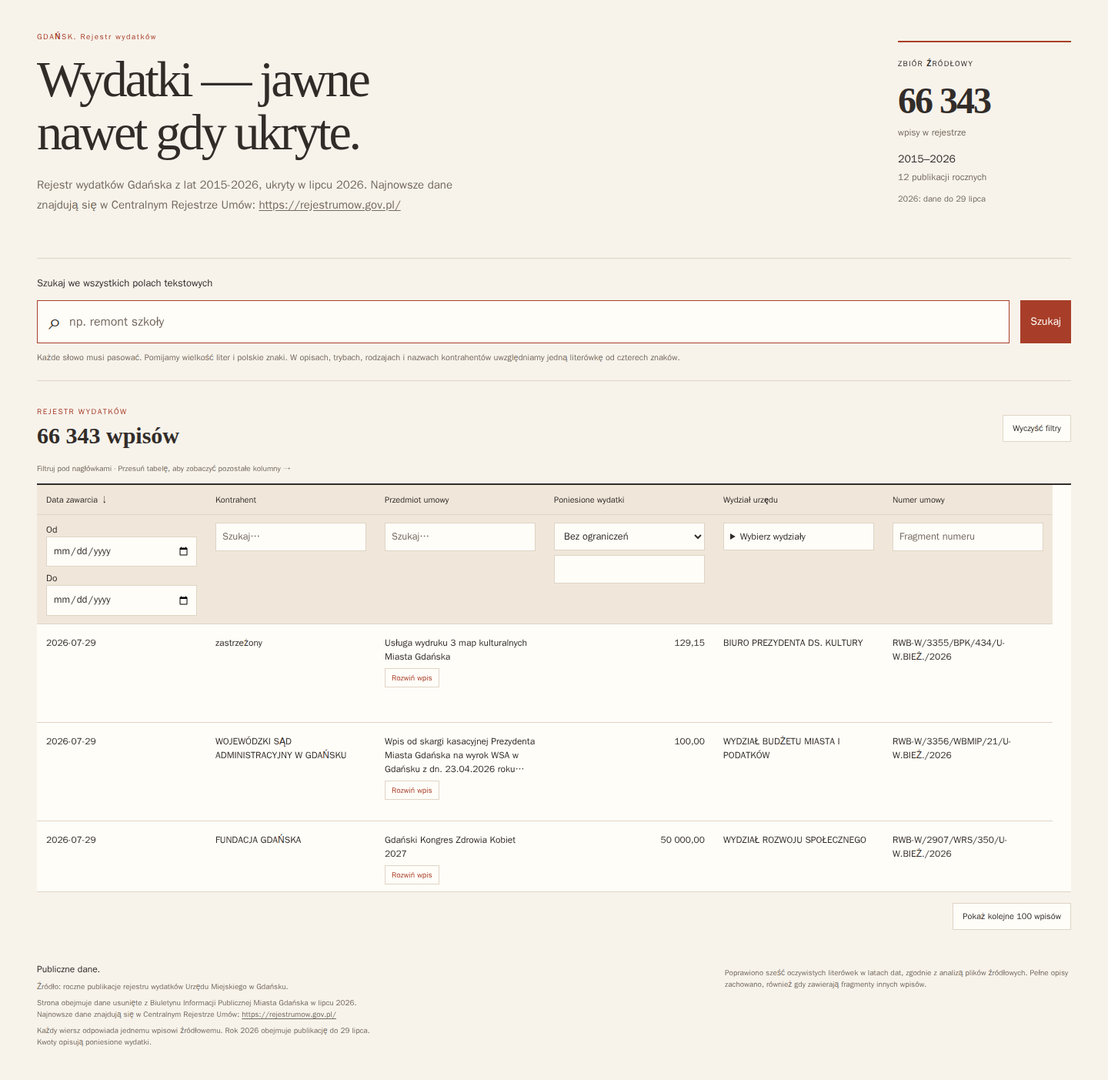
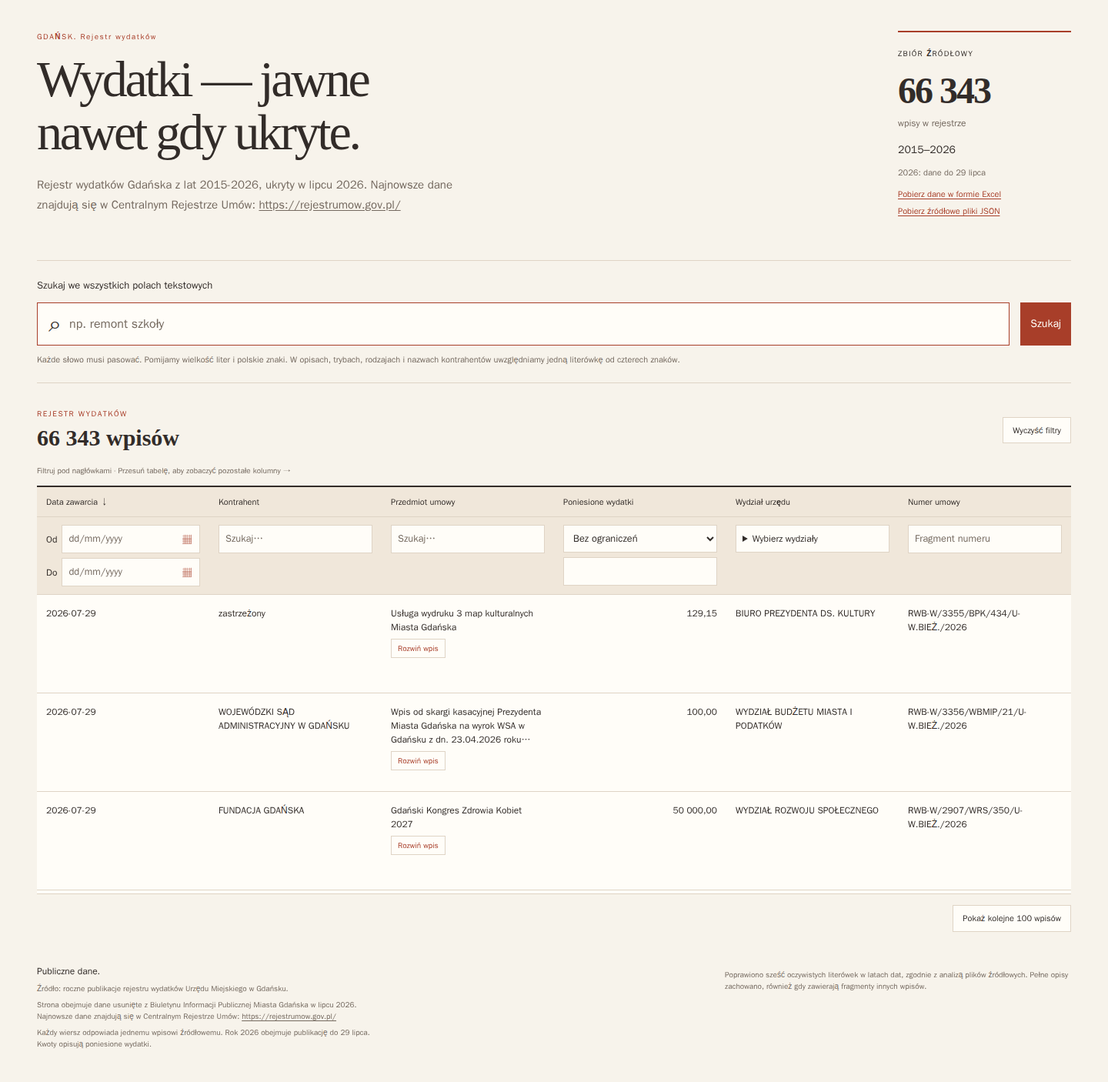
improve expense browsing and source downloads

diff --git a/tests/site/browser/site.spec.ts b/tests/site/browser/site.spec.ts
@@ -21,6 +21,14 @@ test('pełny zbiór, stałe ustawienia i dwie kolumny', async ({ page }) => {
   await expect(page.getByText('Rejestr wydatków Gdańska z lat 2015-2026, ukryty w lipcu 2026.', { exact: false })).toBeVisible();
   await expect(page.getByText('Strona obejmuje dane usunięte z Biuletynu Informacji Publicznej Miasta Gdańska w lipcu 2026.', { exact: false })).toBeVisible();
   await expect(page.getByRole('link', { name: 'https://rejestrumow.gov.pl/' })).toHaveCount(2);
+  await expect(page.getByRole('link', { name: 'Pobierz dane w formie Excel' })).toHaveAttribute('href', './wydatki-gdanska_2015-2026.xlsx');
+  await expect(page.getByRole('link', { name: 'Pobierz źródłowe pliki JSON' })).toHaveAttribute('href', './data/index.html');
+  const excel = await page.request.get('/wydatki-gdanska_2015-2026.xlsx');
+  expect(excel.ok()).toBe(true);
+  expect((await excel.body()).subarray(0, 2).toString()).toBe('PK');
+  const jsonIndex = await page.request.get('/data/index.html');
+  expect(jsonIndex.ok()).toBe(true);
+  expect(await jsonIndex.text()).toContain('publikacja-wydatkow-2026.json');
   await expect(page.getByText('Wyniki obejmują cały zbiór.', { exact: true })).toHaveCount(0);
   await expect(page.locator('tr.entry-row')).toHaveCount(100);
   await expect(page.locator('#profile, #combine, #scope, #example')).toHaveCount(0);
@@ -48,6 +56,24 @@ test('sortowanie zachowuje filtry, literówki w numerze nie pasują', async ({ p
   await submit(page);
   await expect(page.locator('#count')).toHaveAttribute('data-total', '0');
 });
+test('polski format daty filtruje wpisy', async ({ page }) => {
+  await ready(page);
+  const from = page.locator('#contractDate-from');
+  const to = page.locator('#contractDate-to');
+  const picker = page.locator('#contractDate-from-picker');
+  await expect(from).toHaveAttribute('placeholder', 'dd/mm/yyyy');
+  await expect(to).toHaveAttribute('placeholder', 'dd/mm/yyyy');
+  await expect(from.locator('../..')).toHaveCSS('white-space', 'nowrap');
+  await expect(picker).toHaveAttribute('type', 'date');
+  await expect(page.getByRole('button', { name: 'Otwórz kalendarz: Data zawarcia, Od' })).toBeVisible();
+  await picker.fill('2026-07-29');
+  await expect(from).toHaveValue('29/07/2026');
+  await to.fill('29/07/2026');
+  await submit(page);
+  expect(Number(await page.locator('#count').getAttribute('data-total'))).toBeGreaterThan(0);
+  const dates = await page.locator('tr.entry-row td:first-child').allTextContents();
+  expect(dates.every(value => value.trim().startsWith('2026-07-29'))).toBe(true);
+});
 test('wąski ekran i pełny długi opis', async ({ page }) => {
   await page.setViewportSize({ width: 390, height: 844 });
   await ready(page);
@@ -63,6 +89,14 @@ test('wąski ekran i pełny długi opis', async ({ page }) => {
   await page.keyboard.press('Escape');
   await expect(page.locator('#record-dialog')).not.toBeVisible();
   expect(await page.evaluate(() => document.documentElement.scrollWidth <= innerWidth)).toBe(true);
+});
+test('kliknięcie w dowolną komórkę rozwija wpis', async ({ page }) => {
+  await ready(page);
+  const row = page.locator('tr.entry-row').first();
+  const id = await row.getAttribute('data-id');
+  await row.locator('td').first().click();
+  await expect(page.locator('#record-dialog')).toBeVisible();
+  await expect(page.locator('#record-title')).toHaveText('Pełny wpis ' + id);
 });
 test('błąd pobrania nie pokazuje niepełnych wyników', async ({ page }) => {
   await page.context().route('**/generated/manifest.json', route => route.fulfill({ status: 503, body: '' }));
@@ -114,6 +148,9 @@ test('wysokość wierszy odpowiada oknu także po zmianie szerokości', async ({
     const heights = await page.locator('tr.entry-row').evaluateAll(rows => rows.map(row => row.getBoundingClientRect().height));
     expect([...new Set(heights)]).toEqual([ROW_HEIGHT]);
     const table = page.locator('.table-scroll');
+    const dimensions = await table.evaluate(element => ({ viewport: element.clientWidth, table: element.querySelector('table')!.getBoundingClientRect().width }));
+    if (width === 1440) expect(dimensions.table).toBe(dimensions.viewport);
+    else expect(dimensions.table).toBeGreaterThan(dimensions.viewport);
     await table.evaluate(element => { element.scrollLeft = element.scrollWidth; });
     await expect(page.getByRole('button', { name: 'Numer umowy', exact: true })).toBeInViewport();
     expect(await page.evaluate(() => document.documentElement.scrollWidth <= innerWidth)).toBe(true);

diff --git a/site/style.css b/site/style.css
@@ -30,6 +30,8 @@ h1 { font: 400 clamp(40px, 4.6vw, 66px)/1.04 Georgia, "Times New Roman", serif; 
 .collection strong > span:last-child, .collection div span { display: block; font: 400 12px/1.5 system-ui, sans-serif; letter-spacing: 0; color: var(--muted); margin-top: 4px; }
 .collection div b { font-weight: 600; }
 .collection p { color: var(--muted); font-size: 11px; margin-bottom: 0; }
+.collection-downloads { display: grid; gap: 5px; margin-top: 12px; font-size: 11px; }
+.collection-downloads a { color: var(--accent); text-decoration: underline; text-underline-offset: 2px; }
 #status { color: var(--muted); font-size: 12px; margin: 0 0 10px; min-height: 18px; }
 fieldset { min-width: 0; border: 0; margin: 0; padding: 0; }
 .search-area { padding: 22px 0; border-top: 1px solid var(--line); border-bottom: 1px solid var(--line); margin-bottom: 32px; }
@@ -49,7 +51,7 @@ fieldset { min-width: 0; border: 0; margin: 0; padding: 0; }
 .table-toolbar button { font-size: 11px; }
 .scroll-hint { color: var(--muted); font-size: 10px; margin: 0 0 12px; }
 .table-scroll { overflow: auto; overflow-anchor: none; max-height: 530px; position: relative; border-top: 2px solid var(--ink); background: var(--paper); scrollbar-color: var(--muted) var(--soft); }
-table { border-collapse: separate; border-spacing: 0; table-layout: fixed; width: 1320px; font-size: 12px; }
+table { border-collapse: separate; border-spacing: 0; table-layout: fixed; width: 100%; min-width: 1320px; font-size: 12px; }
 thead { position: sticky; top: 0; z-index: 2; background: var(--soft); }
 th, td { width: 220px; min-width: 0; max-width: none; text-align: left; padding: 10px 12px; border-bottom: 1px solid var(--line); vertical-align: top; overflow-wrap: anywhere; }
 th { white-space: normal; font-weight: 550; }
@@ -58,8 +60,14 @@ th[aria-sort="ascending"] button::after { content: ' ↑'; }
 th[aria-sort="descending"] button::after { content: ' ↓'; }
 thead input, thead select { min-width: 0; font-size: .8rem; }
 thead label { display: block; font-size: .75rem; }
+.date-bound { display: flex; align-items: center; gap: 6px; white-space: nowrap; }
+.date-entry { position: relative; display: flex; flex: 1 1 auto; min-width: 0; white-space: nowrap; }
+.date-entry > input[type="text"] { flex: 1 1 auto; width: 0; min-width: 0; padding-right: 34px; white-space: nowrap; }
+.date-picker-button { position: absolute; inset: 1px 1px 1px auto; width: 32px; padding: 0; border: 0; color: var(--accent); background: transparent; }
+.native-date-picker { position: absolute; width: 1px; height: 1px; opacity: 0; pointer-events: none; }
 #filter-head td > label + label, #amount { margin-top: 6px; }
-.entry-row { height: 128px; }
+.date-bound + .date-bound { margin-top: 6px; }
+.entry-row { height: 128px; cursor: pointer; }
 .entry-row td { padding: 15px 12px 16px; }
 .entry-row td > div { height: 96px; overflow: hidden; }
 .entry-row td span { display: -webkit-box; -webkit-box-orient: vertical; -webkit-line-clamp: 3; overflow: hidden; }
@@ -95,10 +103,11 @@ dialog dt { font-size: 10px; text-transform: uppercase; letter-spacing: .06em; c
   .hero { padding: 28px 0 22px; display: block; }
   h1 { font-size: 45px; }
   .intro { font-size: 13px; }
-  .collection { border-top: 1px solid var(--line); padding: 14px 0 0; margin-top: 22px; width: 100%; display: flex; align-items: center; justify-content: space-between; gap: 12px; }
-  .collection-label, .collection p { display: none; }
+  .collection { border-top: 1px solid var(--line); padding: 14px 0 0; margin-top: 22px; width: 100%; display: grid; grid-template-columns: 1fr auto; align-items: center; gap: 12px; }
+  .collection-label, .collection-date { display: none; }
   .collection strong { font-size: 28px; margin: 0; letter-spacing: -1px; }
   .collection strong > span:last-child, .collection div span { font-size: 10px; }
+  .collection-downloads { grid-column: 1 / -1; display: flex; flex-wrap: wrap; gap: 6px 16px; margin-top: 0; }
   .search-area { padding: 18px 0; margin-bottom: 22px; }
   .search-line { gap: 8px; }
   .grow { min-width: 0; font-size: 12px; }

diff --git a/site/main.ts b/site/main.ts
@@ -38,6 +38,23 @@ function textControl(id: string, label: string, type = 'search') {
   control.id = id; control.type = type; control.setAttribute('aria-label', label);
   return control;
 }
+function dateValue(control: HTMLInputElement): string {
+  const value = control.value.trim();
+  if (!value) { control.setCustomValidity(''); return ''; }
+  const match = /^(\d{2})\/(\d{2})\/(\d{4})$/.exec(value);
+  if (!match) { control.setCustomValidity('Wpisz datę w formacie dd/mm/rrrr.'); return ''; }
+  const [, day, month, year] = match;
+  const parsed = new Date(Date.UTC(Number(year), Number(month) - 1, Number(day)));
+  const valid = parsed.getUTCFullYear() === Number(year)
+    && parsed.getUTCMonth() === Number(month) - 1
+    && parsed.getUTCDate() === Number(day);
+  control.setCustomValidity(valid ? '' : 'Wpisz prawidłową datę.');
+  return valid ? `${year}-${month}-${day}` : '';
+}
+function displayDate(value: string): string {
+  const [year, month, day] = value.split('-');
+  return year && month && day ? `${day}/${month}/${year}` : '';
+}
 for (const field of TABLE_COLUMNS) {
   const heading = document.createElement('th'); heading.scope = 'col'; heading.dataset.field = field;
   const button = document.createElement('button'); button.type = 'button'; button.textContent = LABELS[field];
@@ -53,8 +70,24 @@ for (const field of TABLE_COLUMNS) {
     cell.append(control);
   } else if (dateFields.includes(field as typeof dateFields[number])) {
     for (const [key, label] of [['from', 'Od'], ['to', 'Do']]) {
-      const wrapper = document.createElement('label'); wrapper.textContent = label;
-      wrapper.append(textControl(field + '-' + key, LABELS[field] + ': ' + label, 'date'));
+      const id = field + '-' + key;
+      const wrapper = document.createElement('div'); wrapper.className = 'date-bound';
+      const caption = document.createElement('label'); caption.htmlFor = id; caption.textContent = label;
+      const entry = document.createElement('span'); entry.className = 'date-entry';
+      const control = textControl(id, LABELS[field] + ': ' + label, 'text');
+      control.placeholder = 'dd/mm/yyyy'; control.inputMode = 'numeric'; control.maxLength = 10;
+      control.pattern = '\\d{2}/\\d{2}/\\d{4}'; control.autocomplete = 'off';
+      const picker = textControl(id + '-picker', 'Wybierz datę: ' + LABELS[field] + ', ' + label, 'date');
+      picker.className = 'native-date-picker'; picker.tabIndex = -1; picker.setAttribute('aria-hidden', 'true');
+      const openPicker = document.createElement('button'); openPicker.type = 'button'; openPicker.className = 'date-picker-button';
+      openPicker.textContent = '▦'; openPicker.setAttribute('aria-label', 'Otwórz kalendarz: ' + LABELS[field] + ', ' + label);
+      openPicker.addEventListener('click', () => typeof picker.showPicker === 'function' ? picker.showPicker() : picker.click());
+      picker.addEventListener('change', () => {
+        control.value = displayDate(picker.value);
+        control.dispatchEvent(new Event('input', { bubbles: true }));
+      });
+      control.addEventListener('input', () => { picker.value = dateValue(control); });
+      entry.append(control, openPicker, picker); wrapper.append(caption, entry);
       cell.append(wrapper);
     }
   } else if (field === 'contractCost') {
@@ -83,8 +116,9 @@ function currentQuery(): PublicQuery {
     filters.amount = { operator: operator as '>' | '<', value: amount.valueAsNumber };
   }
   for (const field of dateFields) {
-    const from = input(field + '-from').value, to = input(field + '-to').value;
-    input(field + '-to').setCustomValidity(from && to && from > to ? 'Data końcowa nie może poprzedzać początkowej.' : '');
+    const fromControl = input(field + '-from'), toControl = input(field + '-to');
+    const from = dateValue(fromControl), to = dateValue(toControl);
+    if (from && to && from > to) toControl.setCustomValidity('Data końcowa nie może poprzedzać początkowej.');
     if (from || to) filters.dates![field] = { from, to };
   }
   return { text: input('query').value,

diff --git a/scripts/przygotuj-strone.ts b/scripts/przygotuj-strone.ts
@@ -1,5 +1,5 @@
 import { createHash } from 'node:crypto';
-import { mkdir, rm, writeFile } from 'node:fs/promises';
+import { copyFile, cp, mkdir, rm, writeFile } from 'node:fs/promises';
 import { gzipSync } from 'node:zlib';
 import MiniSearch from 'minisearch';
 import { INDEX_OPTIONS } from '../src/search/engine.ts';
@@ -8,9 +8,13 @@ import { loadSource, ROOT } from './dane-poc.ts';
 const { rows, sources, corrections } = await loadSource();
 const index = new MiniSearch(INDEX_OPTIONS);
 index.addAll(rows);
-const directory = ROOT + 'site/public/generated/';
+const publicDirectory = ROOT + 'site/public/';
+const directory = publicDirectory + 'generated/';
 await rm(directory, { recursive: true, force: true });
 await mkdir(directory, { recursive: true });
+await rm(publicDirectory + 'data/', { recursive: true, force: true });
+await cp(ROOT + 'data/', publicDirectory + 'data/', { recursive: true });
+await copyFile(ROOT + 'wydatki-gdanska_2015-2026.xlsx', publicDirectory + 'wydatki-gdanska_2015-2026.xlsx');
 async function artifact(name: string, value: unknown) {
   const content = JSON.stringify(value);
   const digest = createHash('sha256').update(content).digest('hex').slice(0, 16);
@@ -24,4 +28,4 @@ const files = {
   index: await artifact('index', index),
 };
 await writeFile(directory + 'manifest.json', JSON.stringify({ count: rows.length, sources, corrections, files }, null, 2));
-console.log(`Przygotowano ${rows.length} wpisy i indeks.`);
+console.log(`Przygotowano ${rows.length} wpisy, indeks i pliki do pobrania.`);

diff --git a/data/index.html b/data/index.html
@@ -1,0 +1,35 @@
+<!doctype html>
+<html lang="pl">
+<head>
+  <meta charset="UTF-8">
+  <meta name="viewport" content="width=device-width, initial-scale=1">
+  <title>Pliki JSON — Rejestr wydatków Gdańska</title>
+  <style>
+    body { max-width: 760px; margin: 48px auto; padding: 0 20px; color: #322c29; background: #f7f3eb; font: 16px/1.6 system-ui, sans-serif; }
+    h1 { font: 400 42px/1.1 Georgia, serif; }
+    a { color: #8f321f; text-underline-offset: 3px; }
+    li { margin: 8px 0; }
+  </style>
+</head>
+<body>
+  <main>
+    <p><a href="../index.html">← Wróć do rejestru wydatków</a></p>
+    <h1>Wydatki Gdańska — pliki JSON</h1>
+    <p>Pełne dane źródłowe, osobno dla każdego roku:</p>
+    <ul>
+      <li><a href="publikacja-wydatkow-2026.json">2026</a></li>
+      <li><a href="publikacja-wydatkow-2025.json">2025</a></li>
+      <li><a href="publikacja-wydatkow-2024.json">2024</a></li>
+      <li><a href="publikacja-wydatkow-2023.json">2023</a></li>
+      <li><a href="publikacja-wydatkow-2022.json">2022</a></li>
+      <li><a href="publikacja-wydatkow-2021.json">2021</a></li>
+      <li><a href="publikacja-wydatkow-2020.json">2020</a></li>
+      <li><a href="publikacja-wydatkow-2019.json">2019</a></li>
+      <li><a href="publikacja-wydatkow-2018.json">2018</a></li>
+      <li><a href="publikacja-wydatkow-2017.json">2017</a></li>
+      <li><a href="publikacja-wydatkow-2016.json">2016</a></li>
+      <li><a href="publikacja-wydatkow-2015.json">2015</a></li>
+    </ul>
+  </main>
+</body>
+</html>

diff --git a/site/index.html b/site/index.html
@@ -17,8 +17,12 @@
     <div class="collection">
       <span class="collection-label">ZBIÓR ŹRÓDŁOWY</span>
       <strong><span id="collection-count">—</span><span>wpisy w rejestrze</span></strong>
-      <div><b>2015–2026</b><span>12 publikacji rocznych</span></div>
-      <p>2026: dane do 29 lipca</p>
+      <div><b>2015–2026</b></div>
+      <p class="collection-date">2026: dane do 29 lipca</p>
+      <div class="collection-downloads">
+        <a href="./wydatki-gdanska_2015-2026.xlsx" download>Pobierz dane w formie Excel</a>
+        <a href="./data/index.html">Pobierz źródłowe pliki JSON</a>
+      </div>
     </div>
   </section>
   <p id="status" role="status">Wczytywanie danych…</p>

diff --git a/src/ui/record.ts b/src/ui/record.ts
@@ -29,6 +29,10 @@ export function renderRow(entry: Entry, index: number): HTMLTableRowElement {
   const row = document.createElement('tr');
   row.className = 'entry-row'; row.dataset.id = entry.id;
   row.setAttribute('aria-rowindex', String(index + 3));
+  row.addEventListener('click', event => {
+    if (event.target instanceof Element && event.target.closest('button')) return;
+    openRecord(entry);
+  });
   for (const field of TABLE_COLUMNS) {
     const cell = document.createElement('td');
     if (field === 'contractCost') cell.className = 'number';

diff --git a/docs/weryfikacja-strony.md b/docs/weryfikacja-strony.md
@@ -2,7 +2,7 @@
 
 Pomiar: 2026-09-09T18:41:21.829Z. Pełny zbiór: **66 343 wpisy**. Profil **`one`**, łączenie **AND**. Surowe wyniki: [pomiary.json](wyniki-strony/pomiary.json).
 
-Po tym pomiarze uproszczono warstwę prezentacji: usunięto górny pasek, tabela ma sześć kolumn, a cztery pozostałe pola są dostępne w oknie „Rozwiń wpis”. Pomiary czasów i pamięci poniżej pochodzą z wcześniejszego układu dziesięciokolumnowego; algorytm wyszukiwania i zbiór danych nie zostały zmienione. Aktualny układ, treści i szerokości sprawdzono ponownie testami Chromium.
+Po tym pomiarze uproszczono warstwę prezentacji: usunięto górny pasek, tabela ma sześć kolumn, a cztery pozostałe pola są dostępne w oknie „Rozwiń wpis”. Dodano również publiczne pliki do pobrania: skoroszyt Excel oraz 12 źródłowych plików JSON z osobnym indeksem. Pomiary czasów i pamięci poniżej pochodzą z wcześniejszego układu dziesięciokolumnowego; algorytm wyszukiwania i zbiór danych nie zostały zmienione. Aktualny układ, treści i szerokości sprawdzono ponownie testami Chromium.
 
 ## Środowisko i odtworzenie
 
@@ -72,7 +72,7 @@ Stały koszt utrzymywanego zbioru i indeksu pozostaje w workerze; po GC jego uż
 
 | Szerokość viewportu | Szerokość dokumentu | Widoczna szerokość tabeli | Pełna szerokość tabeli | Rzeczywista wysokość wiersza |
 | ---: | ---: | ---: | ---: | ---: |
-| 1440 px | 1440 px | 1344 px | 1320 px | 128 px |
+| 1440 px | 1440 px | 1344 px | 1344 px | 128 px |
 | 390 px | 390 px | 354 px | 1320 px | 128 px |
 
 Wysokości wszystkich aktualnych wierszy są zgodne z `ROW_HEIGHT = 128`, także po zmianie szerokości. Dokument nie przewija się poziomo; poziome przewijanie występuje wewnątrz tabeli.
@@ -105,9 +105,9 @@ Wersje artefaktów z tej kontroli:
 
 | Plik | Rozmiar |
 | --- | ---: |
-| `index.html` | 3 966 B |
-| `assets/index-D2QOrSxQ.css` | 7 153 B |
-| `assets/index-CD9LrStk.js` | 9 459 B |
+| `index.html` | 4 316 B |
+| `assets/index-CWEVB1Fu.css` | 7 941 B |
+| `assets/index-DSYYdc8-.js` | 10 889 B |
 | `assets/worker-D4Fkauf4.js` | 22 473 B |
 | `generated/manifest.json` | 3 416 B |
 | `generated/records.ecb1865a1975168b.json` | 37 150 709 B |
@@ -115,15 +115,15 @@ Wersje artefaktów z tej kontroli:
 | `generated/index.52682b4e6d620f31.json` | 14 625 160 B |
 | `generated/index.52682b4e6d620f31.json.gz` | 3 939 871 B |
 
-Łączny rozmiar plików `dist/` wynosi 60 967 663 B. Kontrola potwierdza działanie relatywnego `base: './'` bez kodowania w adresach nazwy przyszłego repozytorium.
+Do pakietu dochodzą śledzone materiały do pobrania: `wydatki-gdanska_2015-2026.xlsx` (7 659 480 B), `data/index.html` oraz 12 rocznych plików JSON (łącznie 41 894 884 B). Łączny rozmiar plików `dist/` wynosi 110 525 951 B. Kontrola potwierdza działanie relatywnego `base: './'` bez kodowania w adresach nazwy przyszłego repozytorium.
 
-Do odtworzenia kontroli zbuduj stronę, skopiuj całą zawartość `dist/` do `podglad/rejestr/` pod zwykłym serwerem statycznym i otwórz `/rejestr/`. Sprawdź oba wejścia (pierwsze oraz odświeżenie), liczbę 66 343 oraz odpowiedzi dla workera, manifestu i obu plików `.json.gz`. Serwer powinien udostępniać zwykłe bajty gzip, bez własnego `Content-Encoding`.
+Do odtworzenia kontroli zbuduj stronę, skopiuj całą zawartość `dist/` do `podglad/rejestr/` pod zwykłym serwerem statycznym i otwórz `/rejestr/`. Sprawdź oba wejścia (pierwsze oraz odświeżenie), liczbę 66 343, odpowiedzi dla workera, manifestu i obu plików `.json.gz`, a także bezpośrednie adresy `wydatki-gdanska_2015-2026.xlsx` i `data/index.html`. Serwer powinien udostępniać zwykłe bajty gzip, bez własnego `Content-Encoding`.
 
 ## Publikacja przez GitHub Pages
 
 Plik [`.github/workflows/pages.yml`](../.github/workflows/pages.yml) jest ręcznie uruchamianym workflow. Po skonfigurowaniu repozytorium na GitHub i wybraniu „GitHub Actions” jako źródła Pages buduje oraz sprawdza stronę, po czym przesyła wyłącznie `dist/` do GitHub Pages. Obecnie nie ma skonfigurowanego zdalnego repozytorium, więc nie wykonano publikacji i nie podano adresu strony.
 
-Kontrola wejść CI (`git ls-files --error-unmatch`) potwierdziła śledzenie 12 plików `data/`, `scripts/dane-poc.ts`, `scripts/przygotuj-strone.ts`, `src/`, `site/`, `vite.site.config.ts` oraz `package-lock.json`. `dist/` i `site/public/generated/` są poprawnie ignorowanymi wynikami budowania; `node_modules/`, POC i skrypty narzędziowe nie są częścią artefaktu Pages.
+Kontrola wejść CI (`git ls-files --error-unmatch`) potwierdziła śledzenie 12 plików JSON i `data/index.html`, skoroszytu, `scripts/dane-poc.ts`, `scripts/przygotuj-strone.ts`, `src/`, `site/`, `vite.site.config.ts` oraz `package-lock.json`. Generator kopiuje skoroszyt i cały katalog `data/` do wyniku. `dist/` i kopie w `site/public/` są poprawnie ignorowanymi wynikami budowania; `node_modules/`, POC i skrypty narzędziowe nie są częścią artefaktu Pages.
 
 Końcowa kontrola tego pakietu użyła tej samej kolejności co workflow:
 
@@ -134,11 +134,11 @@ Końcowa kontrola tego pakietu użyła tej samej kolejności co workflow:
 | `npm run test:site:unit` | 2 testy zaliczone, 0 błędów; 78,36 ms |
 | `npm run build` | przygotowano 66 343 wpisy, kontrola TypeScript przeszła, Vite: 92 ms |
 | `npx playwright install --with-deps chromium` | Chromium i zależności systemowe dostępne; bez nowych pakietów systemowych |
-| `npm run test:site:browser` | 9 testów zaliczonych; kontrola powtórzona po zmianie treści i kolumn |
+| `npm run test:site:browser` | 11 testów zaliczonych; kontrola powtórzona po zmianie treści i kolumn |
 
 ## Testy i czułość regresji
 
-Dziewięć testów przeglądarkowych obejmuje wymagane pięć scenariuszy, zachowanie fokusu przy przesuwaniu okna, wysokość wierszy, klawiaturę i liczebności wydziałów oraz skuteczne ponowienie pobrania. Testy sprawdzają również aktualne treści, sześć widocznych kolumn, brak usuniętych filtrów i obecność wszystkich dziesięciu pól w „Rozwiń wpis”. Korzystają z publicznych kontrolek, `tr.entry-row`, `data-id`, `#count[data-total]`, natywnego dialogu i istniejących atrybutów gotowości.
+Jedenaście testów przeglądarkowych obejmuje wymagane pięć scenariuszy, zachowanie fokusu przy przesuwaniu okna, wysokość wierszy, klawiaturę i liczebności wydziałów, polski format daty, otwieranie szczegółów przez kliknięcie wiersza oraz skuteczne ponowienie pobrania. Testy sprawdzają również aktualne treści, sześć widocznych kolumn, brak usuniętych filtrów i obecność wszystkich dziesięciu pól w „Rozwiń wpis”. Korzystają z publicznych kontrolek, `tr.entry-row`, `data-id`, `#count[data-total]`, natywnego dialogu i istniejących atrybutów gotowości.
 
 Wymagane pięć testów było zielonych od pierwszego uruchomienia na istniejącym buildzie (8,1 s); po rozszerzeniu osiem testów także przeszło (11,4 s). Nie wykryto rzeczywistej rozbieżności wymagającej poprawki. Dodatkowo kontrolowana, tymczasowa mutacja CSS wysokości wiersza z 128 na 129 px dała RED: test zgłosił oczekiwane `[128]`, otrzymane `[129]`. Przywrócono plik i ponownie zbudowano stronę przed końcową weryfikacją GREEN. To dowód czułości testu, nie opis naprawy istniejącego błędu.
 
@@ -149,7 +149,7 @@ Końcowa weryfikacja po przywróceniu CSS:
 | `npm test` | 13 testów, 13 zaliczonych, 0 błędów; 338,73 ms |
 | `npm run test:site:unit` | 2 testy, 2 zaliczone, 0 błędów; 75,81 ms |
 | `npm run build` | przygotowano 66 343 wpisy; TypeScript i build poprawne; Vite 105 ms |
-| `npm run test:site:browser` | 9 testów zaliczonych; kontrola powtórzona po zmianie treści i kolumn |
+| `npm run test:site:browser` | 11 testów zaliczonych; kontrola powtórzona po zmianie treści i kolumn |
 | `npm run build:poc` | TypeScript i build POC poprawne; Vite 85 ms |
 | `npm run measure:site` | zapisano trzy zimne starty, dziewięć zapytań, 35 kroków przewijania, pamięć obu wątków i pięć zrzutów |
 

diff --git a/README.md b/README.md
@@ -32,13 +32,13 @@ npm run build
 npm run preview
 ```
 
-Gotowe pliki są w `dist/`; publikuj cały ten katalog, łącznie z `generated/`. Podgląd zwykle działa pod `http://localhost:4173`. Wyszukiwarka wymaga HTTP lub HTTPS; nie otwieraj pliku HTML bezpośrednio z dysku.
+Gotowe pliki są w `dist/`; publikuj cały ten katalog, łącznie z `generated/`, skoroszytem Excel i katalogiem `data/` z rocznymi plikami JSON oraz ich indeksem. Podgląd zwykle działa pod `http://localhost:4173`. Wyszukiwarka wymaga HTTP lub HTTPS; nie otwieraj pliku HTML bezpośrednio z dysku.
 
 ## GitHub Pages
 
 Workflow [`.github/workflows/pages.yml`](.github/workflows/pages.yml) uruchamia się wyłącznie ręcznie (`workflow_dispatch`). Po podłączeniu repozytorium do GitHub ustaw w Pages źródło publikacji na „GitHub Actions”, a następnie uruchom workflow z karty Actions. Najpierw wykonuje on `npm ci`, testy jednostkowe, build i testy Chromium, a dopiero potem przekazuje `dist/` do Pages.
 
-Wejściem CI są śledzone pliki `data/`, współdzielony loader `scripts/dane-poc.ts`, źródła `src/` i `site/`, konfiguracja oraz `package-lock.json`. Artefaktem jest wyłącznie `dist/`; nie zawiera on `node_modules`, laboratorium POC ani skryptów narzędziowych. W repozytorium nie ma jeszcze zdalnego adresu, dlatego workflow nie określa ani nie zakłada adresu przyszłej publikacji.
+Wejściem CI są śledzone pliki `data/`, skoroszyt, współdzielony loader `scripts/dane-poc.ts`, źródła `src/` i `site/`, konfiguracja oraz `package-lock.json`. Artefaktem jest wyłącznie `dist/`; zawiera stronę, pliki potrzebne wyszukiwarce, skoroszyt oraz źródłowe pliki JSON. Nie zawiera `node_modules`, laboratorium POC ani skryptów narzędziowych. W repozytorium nie ma jeszcze zdalnego adresu, dlatego workflow nie określa ani nie zakłada adresu przyszłej publikacji.
 
 `base: './'` pozwala umieścić gotowy katalog również pod zagnieżdżoną ścieżką. Lokalna kontrola opisana w [weryfikacji strony](docs/weryfikacja-strony.md#pakiet-statyczny-w-podkatalogu) umieszcza `dist/` pod `/rejestr/` i sprawdza wejście oraz odświeżenie, wraz z workerem, manifestem i danymi gzip.
 
